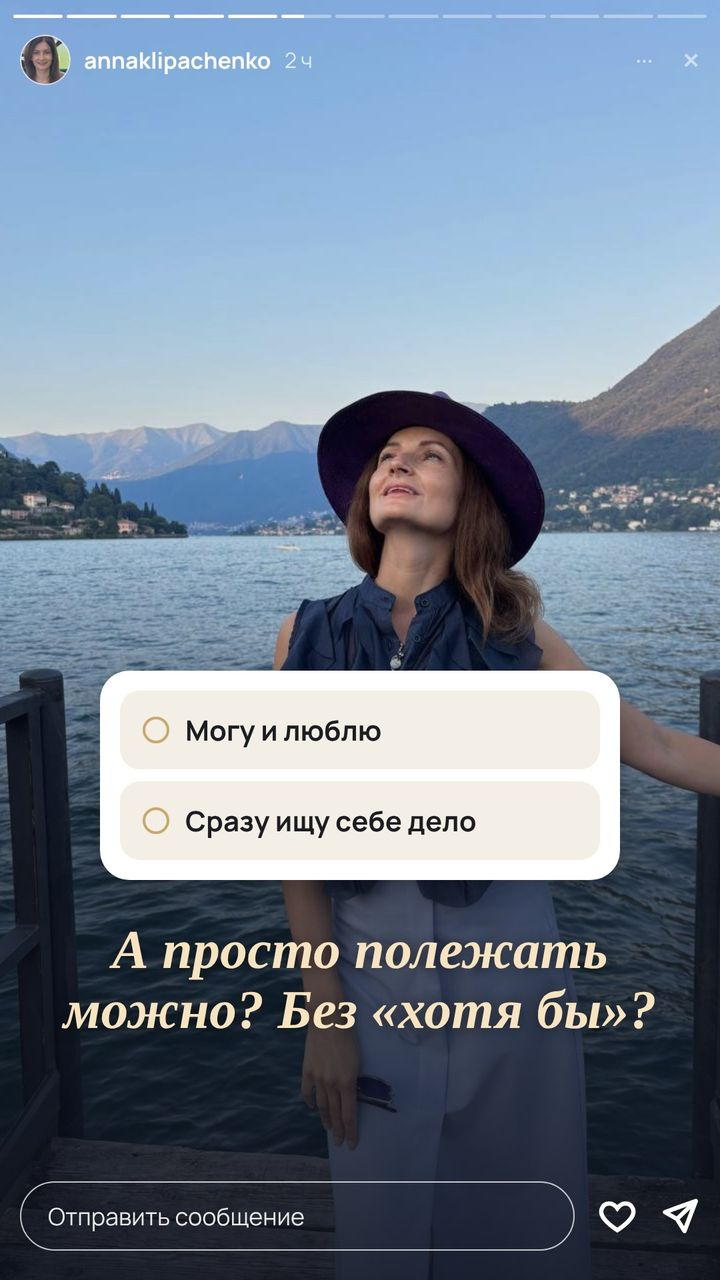
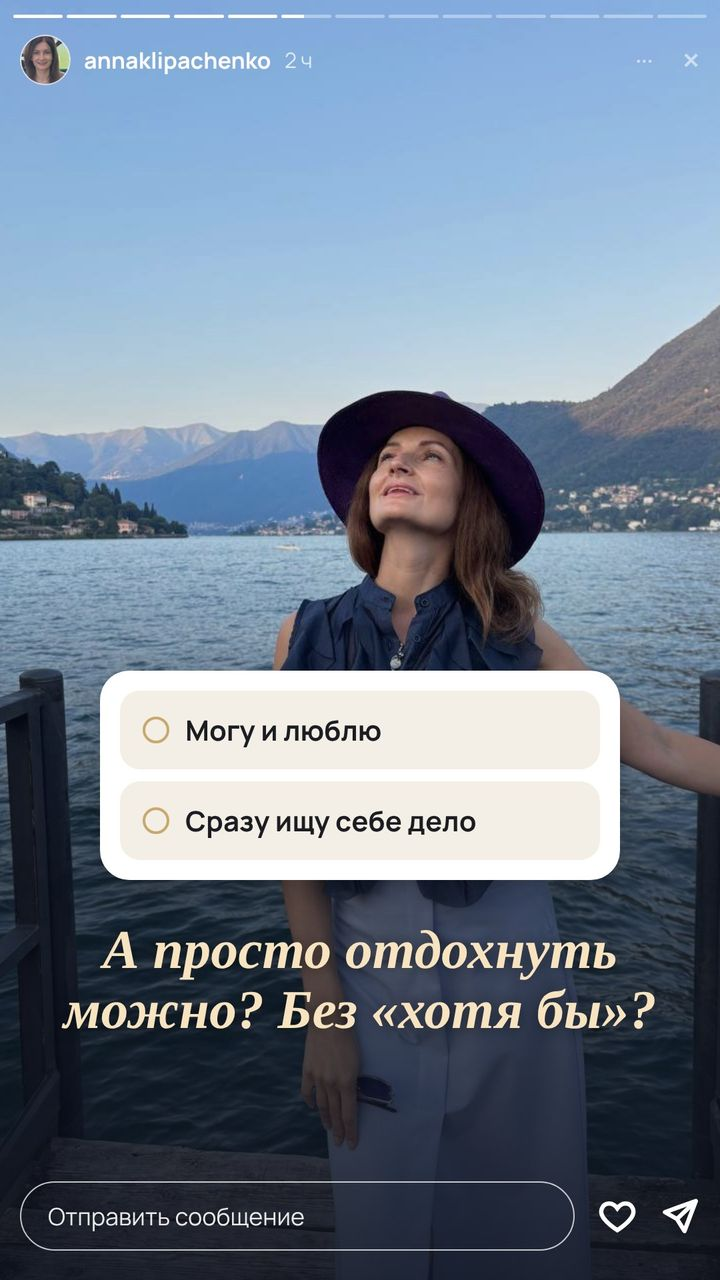
Настоящая карусель «Не знаешь, чего хочешь?» (13 слайдов); сторис 6: «просто отдохнуть»
Claude-Session: https://claude.ai/code/session_012UNKH4DbN2L415HuYi8dpu

Changed region(s): [[0.1528, 0.7188, 0.8556, 0.7812]]

diff --git a/index.html b/index.html
@@ -375,6 +375,9 @@ a{color:inherit}
 .silk-bg .c-meta b{color:var(--on-navy)}
 .player .pic{position:absolute;inset:0;width:100%;height:100%;object-fit:cover}
 .player.img iframe,.player:not(.img) .pic,.player.img .ext{display:none}
+.player.img .frame{width:auto;aspect-ratio:auto;background:none}
+.player.img .pic{position:static;display:block;width:auto;height:auto;max-width:90vw;max-height:84vh;border-radius:20px}
+.car-btn{aspect-ratio:4/5;border-radius:16px;box-shadow:0 18px 40px rgba(64,44,22,.16)}
 
 /* плеер */
 .player{border:0;padding:0;background:transparent;max-width:none;max-height:none;margin:auto;overflow:visible;color:var(--on-navy)}
@@ -922,28 +925,29 @@ body.hints .draft{outline:1.5px dashed var(--gold-deep);outline-offset:4px;borde
 <section class="sec cream-bg" id="s11">
   <div class="wrap">
     <div class="sec-head"><span class="num rv">11</span><div><h2 class="h2 rv">Карусель</h2><p class="lead rv">«Не знаешь, чего хочешь?» — десять вопросов, на которые хочется ответить про себя и переслать подруге</p></div></div>
-    <p class="c-meta rv"><span><b>12 слайдов</b> обложка, 10 вопросов, финал</span><span><b>Цель</b> сохранения и пересылки</span><span><b>Кодовое слово</b> ВОЛНА</span></p>
+    <p class="c-meta rv"><span><b>13 слайдов</b> обложка, 10 вопросов, вывод и финал</span><span><b>Цель</b> сохранения и пересылки</span><span><b>Кодовое слово</b> ВОЛНА</span><span><b>Фото</b> новая серия эксперта из Праги</span></p>
     <div class="carousel rv" id="car" tabindex="0" aria-label="Слайды карусели, листаются вбок">
-      <div class="slide dark"><span class="n"><span>Карусель</span><span>1 / 12</span></span><div><p class="ct">Не знаешь, чего хочешь?</p><p class="cs">10 вопросов, после которых «не знаю» уже не такой простой ответ</p></div><span class="bar"></span></div>
-      <div class="slide"><span class="n"><span>Вопрос</span><span>2 / 12</span></span><div><p class="qn">01</p><p class="qt">Что бы ты делала завтра, если бы никто не ждал от тебя отчёта?</p></div><span class="bar"></span></div>
-      <div class="slide"><span class="n"><span>Вопрос</span><span>3 / 12</span></span><div><p class="qn">02</p><p class="qt">Чему ты тихо завидуешь в чужой жизни?</p></div><span class="bar"></span></div>
-      <div class="slide"><span class="n"><span>Вопрос</span><span>4 / 12</span></span><div><p class="qn">03</p><p class="qt">На что ты тратишь деньги, когда тебе плохо?</p></div><span class="bar"></span></div>
-      <div class="slide"><span class="n"><span>Вопрос</span><span>5 / 12</span></span><div><p class="qn">04</p><p class="qt">Что ты перестала хотеть, потому что «уже поздно»?</p></div><span class="bar"></span></div>
-      <div class="slide"><span class="n"><span>Вопрос</span><span>6 / 12</span></span><div><p class="qn">05</p><p class="qt">О чём ты мечтала в двадцать, и что из этого до сих пор отзывается?</p></div><span class="bar"></span></div>
-      <div class="slide"><span class="n"><span>Вопрос</span><span>7 / 12</span></span><div><p class="qn">06</p><p class="qt">Какой день за последний месяц ты бы прожила ещё раз?</p></div><span class="bar"></span></div>
-      <div class="slide"><span class="n"><span>Вопрос</span><span>8 / 12</span></span><div><p class="qn">07</p><p class="qt">За что ты держишься годами, хотя легко обошлась бы без этого?</p></div><span class="bar"></span></div>
-      <div class="slide"><span class="n"><span>Вопрос</span><span>9 / 12</span></span><div><p class="qn">08</p><p class="qt">Чего ты боишься попросить вслух?</p></div><span class="bar"></span></div>
-      <div class="slide"><span class="n"><span>Вопрос</span><span>10 / 12</span></span><div><p class="qn">09</p><p class="qt">Какой разговор ты откладываешь дольше всего?</p></div><span class="bar"></span></div>
-      <div class="slide"><span class="n"><span>Вопрос</span><span>11 / 12</span></span><div><p class="qn">10</p><p class="qt">Если бы деньги не были вопросом, где бы ты проснулась через год?</p></div><span class="bar"></span></div>
-      <div class="slide dark"><span class="n"><span>Финал</span><span>12 / 12</span></span><p class="et">Если хотя бы на три вопроса ответ пришёл сразу, ты знаешь, чего хочешь. Просто давно себе в этом не признавалась.</p><span class="code">Напиши ВОЛНА</span></div>
+      <button class="st-btn car-btn" type="button" data-img="assets/carousel/c01.jpg" aria-label="Открыть слайд 1"><img src="assets/carousel/c01.jpg" alt="Слайд 1. Обложка: Не знаешь, чего хочешь? 10 вопросов" loading="lazy"></button>
+      <button class="st-btn car-btn" type="button" data-img="assets/carousel/c02.jpg" aria-label="Открыть слайд 2"><img src="assets/carousel/c02.jpg" alt="Слайд 2. Вопрос 01: в какой момент за последний месяц мне было по-настоящему хорошо" loading="lazy"></button>
+      <button class="st-btn car-btn" type="button" data-img="assets/carousel/c03.jpg" aria-label="Открыть слайд 3"><img src="assets/carousel/c03.jpg" alt="Слайд 3. Вопрос 02: чему я завидую в чужой жизни" loading="lazy"></button>
+      <button class="st-btn car-btn" type="button" data-img="assets/carousel/c04.jpg" aria-label="Открыть слайд 4"><img src="assets/carousel/c04.jpg" alt="Слайд 4. Вопрос 03: отмена какого плана принесла бы облегчение" loading="lazy"></button>
+      <button class="st-btn car-btn" type="button" data-img="assets/carousel/c05.jpg" aria-label="Открыть слайд 5"><img src="assets/carousel/c05.jpg" alt="Слайд 5. Вопрос 04: какую часть своей жизни я хотела бы сохранить" loading="lazy"></button>
+      <button class="st-btn car-btn" type="button" data-img="assets/carousel/c06.jpg" aria-label="Открыть слайд 6"><img src="assets/carousel/c06.jpg" alt="Слайд 6. Вопрос 05: что мне хотелось попробовать до того, как я решила, что уже поздно" loading="lazy"></button>
+      <button class="st-btn car-btn" type="button" data-img="assets/carousel/c07.jpg" aria-label="Открыть слайд 7"><img src="assets/carousel/c07.jpg" alt="Слайд 7. Вопрос 06: как выглядел бы мой обычный вторник" loading="lazy"></button>
+      <button class="st-btn car-btn" type="button" data-img="assets/carousel/c08.jpg" aria-label="Открыть слайд 8"><img src="assets/carousel/c08.jpg" alt="Слайд 8. Вопрос 07: чего бы я хотела, если бы не пришлось никому объяснять свой выбор" loading="lazy"></button>
+      <button class="st-btn car-btn" type="button" data-img="assets/carousel/c09.jpg" aria-label="Открыть слайд 9"><img src="assets/carousel/c09.jpg" alt="Слайд 9. Вопрос 08: чем я готова поступиться ради этого желания" loading="lazy"></button>
+      <button class="st-btn car-btn" type="button" data-img="assets/carousel/c10.jpg" aria-label="Открыть слайд 10"><img src="assets/carousel/c10.jpg" alt="Слайд 10. Вопрос 09: какое желание я могу проверить, не переворачивая всю жизнь" loading="lazy"></button>
+      <button class="st-btn car-btn" type="button" data-img="assets/carousel/c11.jpg" aria-label="Открыть слайд 11"><img src="assets/carousel/c11.jpg" alt="Слайд 11. Вопрос 10: что я сделаю в ближайшие семь дней" loading="lazy"></button>
+      <button class="st-btn car-btn" type="button" data-img="assets/carousel/c12.jpg" aria-label="Открыть слайд 12"><img src="assets/carousel/c12.jpg" alt="Слайд 12. Выбери один ответ, который хочется проверить" loading="lazy"></button>
+      <button class="st-btn car-btn" type="button" data-img="assets/carousel/c13.jpg" aria-label="Открыть слайд 13"><img src="assets/carousel/c13.jpg" alt="Слайд 13. Финал: напиши ВОЛНА" loading="lazy"></button>
     </div>
     <div class="c-ctrl rv">
       <button class="c-btn prev" type="button" aria-label="Предыдущий слайд" data-dir="-1"><svg><use href="#i-arr"/></svg></button>
-      <span class="c-count" aria-live="polite">1 / 12</span>
+      <span class="c-count" aria-live="polite">1 / 13</span>
       <button class="c-btn next" type="button" aria-label="Следующий слайд" data-dir="1"><svg><use href="#i-arr"/></svg></button>
       <span class="c-bar"><i></i></span>
     </div>
-    <p class="hint">Пока слайды набраны текстом в стиле сайта. Готовые картинки с пражскими фото лежат у тебя на компьютере: открой приложение Claude на компьютере, я попрошу доступ к папке «Волна» и поставлю настоящие слайды.</p>
+    <p class="hint">Настоящая карусель из папки «КОНТЕНТ-ПЛАН / НОЯБРЬ 2026 / 16.11-22.11», собрана 19.11. Нажми на слайд, он откроется крупно.</p>
   </div>
 </section>
 
